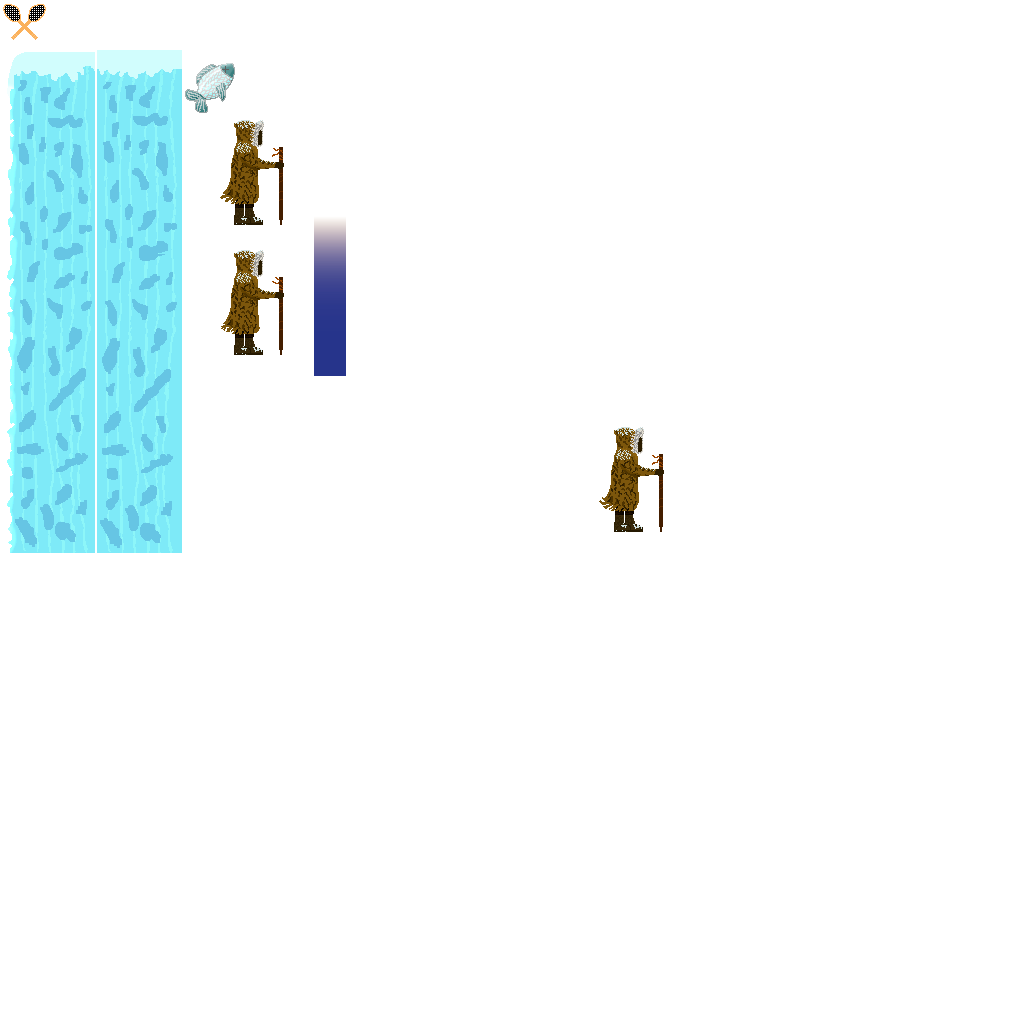
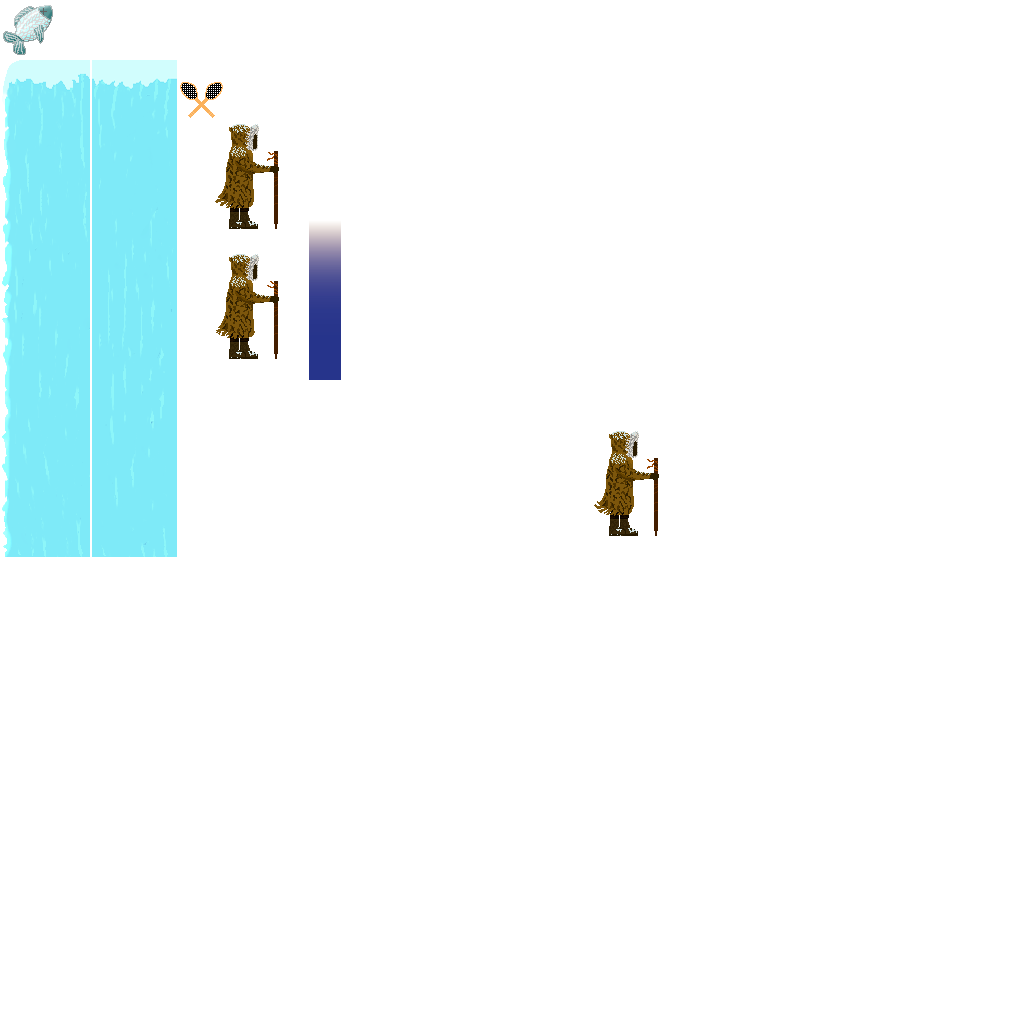
Glacier Fix
Changed Glacier texture and added more glaciers per platform. Now renders all glaciers correctly

Changed region(s): [[0.0, 0.0, 0.3438, 0.5625], [0.5625, 0.4062, 0.6562, 0.5312]]

diff --git a/core/src/com/libgdx/eskimojoe/game/objects/Glacier.java b/core/src/com/libgdx/eskimojoe/game/objects/Glacier.java
@@ -23,7 +23,7 @@ public class Glacier extends AbstractGameObject
 		regEdge = Assets.instance.platform.edge;
 		regMiddle = Assets.instance.platform.middle;
 		
-		// Start length of this rock
+		// Start length of this glacier
 		setLength(1);
 	}
 	
@@ -61,18 +61,18 @@ public class Glacier extends AbstractGameObject
 		// Draw middle
 		relX = 0;
 		reg = regMiddle;
-		for (int i = 0; i < length; i++)
+		for (int i = 0; i < length*2; i++)
 		{
 			batch.draw(reg.getTexture(), 
 					position.x + relX, position.y + relY, 
 					origin.x, origin.y, 
-					dimension.x, dimension.y, 
+					dimension.x / 2, dimension.y, 
 					scale.x, scale.y, 
 					rotation, 
 					reg.getRegionX(), reg.getRegionY(), 
 					reg.getRegionWidth(), reg.getRegionHeight(), 
 					false, false);
-			relX += dimension.x;
+			relX += dimension.x / 2;
 		}
 		
 		// Draw right edge
